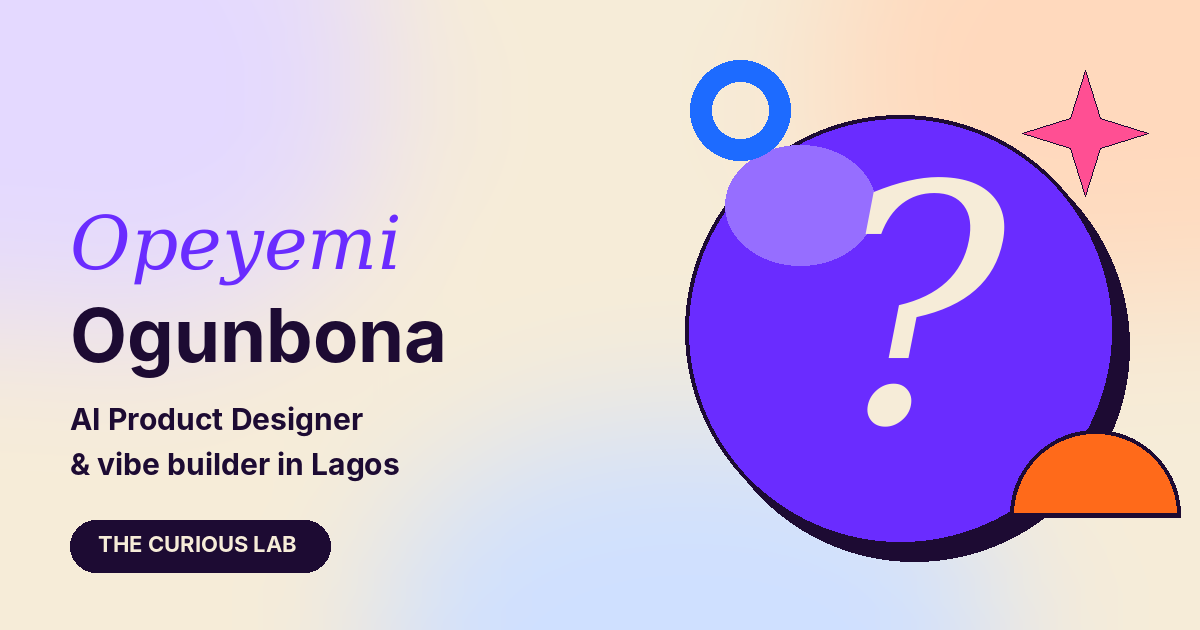
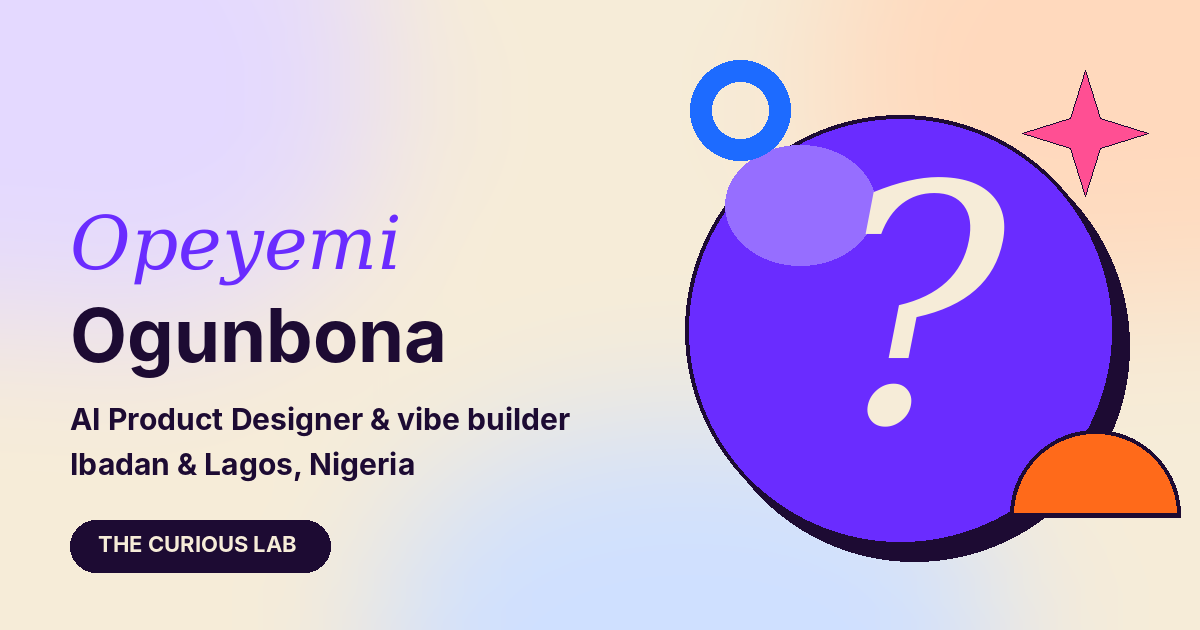
fixed fonts

Changed region(s): [[0.3083, 0.6333, 0.4933, 0.6937], [0.0617, 0.7238, 0.37, 0.7841]]

diff --git a/app/about/page.tsx b/app/about/page.tsx
@@ -1,4 +1,4 @@
 import Link from 'next/link';
 import type { Metadata } from 'next';
-export const metadata: Metadata = { title: 'About', description: 'Opeyemi Ogunbona is an AI Product Designer and vibe builder in Lagos who turns messy problems into products people can use.' };
-export default function About(){return <div className="inner-page"><span className="section-index">01 / ABOUT</span><h1 className="page-title">Curiosity is my<br/><em>starting point.</em></h1><div className="page-columns"><p className="lead">I'm Opeyemi, an AI Product Designer and vibe builder in Lagos. I take messy problems and turn them into products people can actually use.</p><div><p>Product thinking, interface design and AI-assisted building: I do all three, so ideas don't die in a Figma file.</p><p>I care about what's under the screen: how a product works, how its pieces connect, and whether anyone will actually use it.</p><Link className="button-dark" href="/work">EXPLORE MY WORK ↗</Link></div></div></div>}
+export const metadata: Metadata = { title: 'About', description: 'Opeyemi Ogunbona is an AI Product Designer and vibe builder shuttling between Ibadan and Lagos who turns messy problems into products people can use.' };
+export default function About(){return <div className="inner-page"><span className="section-index">01 / ABOUT</span><h1 className="page-title">Curiosity is my<br/><em>starting point.</em></h1><div className="page-columns"><p className="lead">I'm Opeyemi, an AI Product Designer and vibe builder, shuttling between Ibadan and Lagos. I take messy problems and turn them into products people can actually use.</p><div><p>Product thinking, interface design and AI-assisted building: I do all three, so ideas don't die in a Figma file.</p><p>I care about what's under the screen: how a product works, how its pieces connect, and whether anyone will actually use it.</p><Link className="button-dark" href="/work">EXPLORE MY WORK ↗</Link></div></div></div>}

diff --git a/app/theme.css b/app/theme.css
@@ -53,7 +53,7 @@ em,.section-heading h2 i,.about-strip h2 i,.do-card h3,.word.name,.word.curious{
 .word{display:inline-block;will-change:transform}
 .word.name{color:var(--purple);font-size:1.16em;letter-spacing:-.025em;padding-right:.04em}
 .word.curious{color:var(--orange);font-size:1.16em;letter-spacing:-.025em}
-.ghost{position:absolute;left:50%;top:60%;translate:calc(-50% + var(--px,0)*-34px) calc(-50% + var(--py,0)*-18px);transition:translate .6s var(--ease);z-index:-2;font-weight:800;font-size:clamp(110px,20vw,300px);line-height:.8;letter-spacing:-.07em;color:#1d0b33;opacity:.035;white-space:nowrap;pointer-events:none;user-select:none}
+.ghost{position:absolute;left:50%;top:60%;translate:calc(-50% + var(--px,0)*-34px) calc(-50% + var(--py,0)*-18px);transition:translate .6s var(--ease);z-index:-2;font-weight:800;font-size:clamp(110px,20vw,300px);line-height:.8;letter-spacing:-.07em;color:rgba(106,44,255,.07);filter:blur(1.2px);-webkit-mask-image:linear-gradient(to bottom,#000 35%,transparent 100%);mask-image:linear-gradient(to bottom,#000 35%,transparent 100%);white-space:nowrap;pointer-events:none;user-select:none}
 .hero-caption{position:absolute;left:4.2%;bottom:40px;z-index:3;text-align:left;max-width:300px;font:500 12px/1.7 var(--font-mono,'DM Mono',monospace);color:#4a3a66;margin:0}
 .hero-caption span{display:block;margin-top:8px;font-size:9.5px;letter-spacing:.06em;text-transform:uppercase;color:#8a7ba3}
 .hero-cta{position:absolute;right:4.2%;bottom:40px;z-index:3}

diff --git a/app/layout.tsx b/app/layout.tsx
@@ -8,8 +8,8 @@ const sans = Plus_Jakarta_Sans({ subsets: ['latin'], variable: '--f-sans', displ
 const serif = Instrument_Serif({ subsets: ['latin'], weight: '400', style: ['normal', 'italic'], variable: '--f-serif', display: 'swap' });
 
 const siteUrl = 'https://opeyemiproductportfolio.vercel.app';
-const siteTitle = 'Opeyemi Ogunbona — AI Product Designer in Lagos';
-const siteDescription = 'AI Product Designer and vibe builder in Lagos. I design product concepts in Figma and build working prototypes with AI. See the work.';
+const siteTitle = 'Opeyemi Ogunbona — AI Product Designer in Lagos & Ibadan';
+const siteDescription = 'AI Product Designer and vibe builder shuttling between Ibadan and Lagos. I design product concepts in Figma and build working prototypes with AI. See the work.';
 
 export const metadata: Metadata = {
   metadataBase: new URL(siteUrl),

diff --git a/components/Sidebar.tsx b/components/Sidebar.tsx
@@ -28,7 +28,7 @@ export default function Sidebar() {
         })}
       </nav>
       <div className="side-bottom">
-        <div className="status-card"><span className="status-light" /> <small>STATUS</small><strong>Building cool things with AI.</strong><small>LOCATION</small><strong>Lagos, Nigeria</strong></div>
+        <div className="status-card"><span className="status-light" /> <small>STATUS</small><strong>Building cool things with AI.</strong><small>LOCATION</small><strong>{profile.location}</strong></div>
         <div className="side-note">Building in public.<br />Sharing what I learn.</div>
         {profile.socials.linkedin
           ? <a className="side-social" href={profile.socials.linkedin} target="_blank" rel="noopener noreferrer">CONNECT ON LINKEDIN <ArrowUpRight size={14}/></a>

diff --git a/app/contact/page.tsx b/app/contact/page.tsx
@@ -16,6 +16,6 @@ export default function Contact() {
     {email && <a className="contact-email" href={`mailto:${email}`}><Mail /> {email} <ArrowUpRight /></a>}
     <div className="contact-links"><LinkedInButton /></div>
     {links.length > 0 && <div className="contact-links">{links.map(l => <a key={l.label} href={l.href} target="_blank" rel="noopener noreferrer" className="button-outline">{l.label} <ArrowUpRight size={15} /></a>)}</div>}
-    <p className="small-note">Based in {profile.location}. Working with teams and founders worldwide.</p>
+    <p className="small-note">{profile.locationLine}.</p>
   </div>;
 }

diff --git a/data/profile.ts b/data/profile.ts
@@ -5,7 +5,8 @@ export const profile = {
   headline: 'I turn curiosity into intelligent experiences.',
   supporting:
     'Exploring the intersection of AI, product thinking and technology. I design ideas, build experiments and create useful digital experiences.',
-  location: 'Lagos, Nigeria',
+  location: 'Ibadan & Lagos, Nigeria',
+  locationLine: 'Shuttling between Ibadan and Lagos',
   // Fill these in. Any field left empty is hidden from the site automatically.
   email: 'opeyemiogunbona06@gmail.com',
   socials: {
